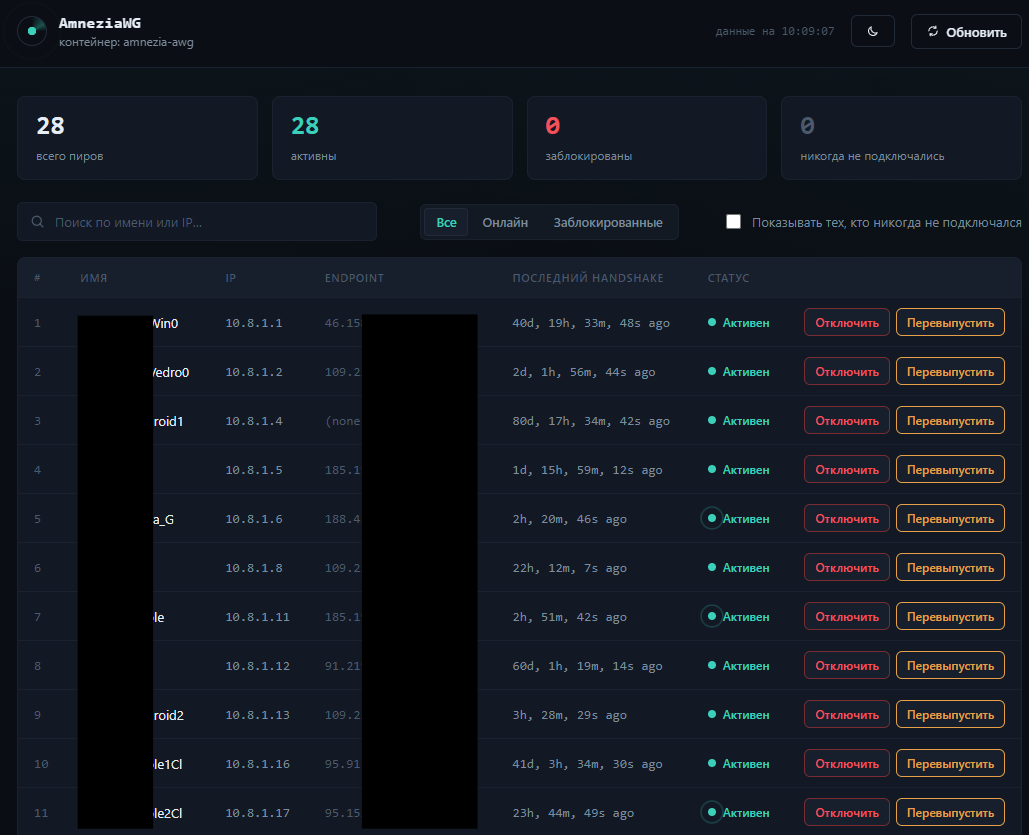
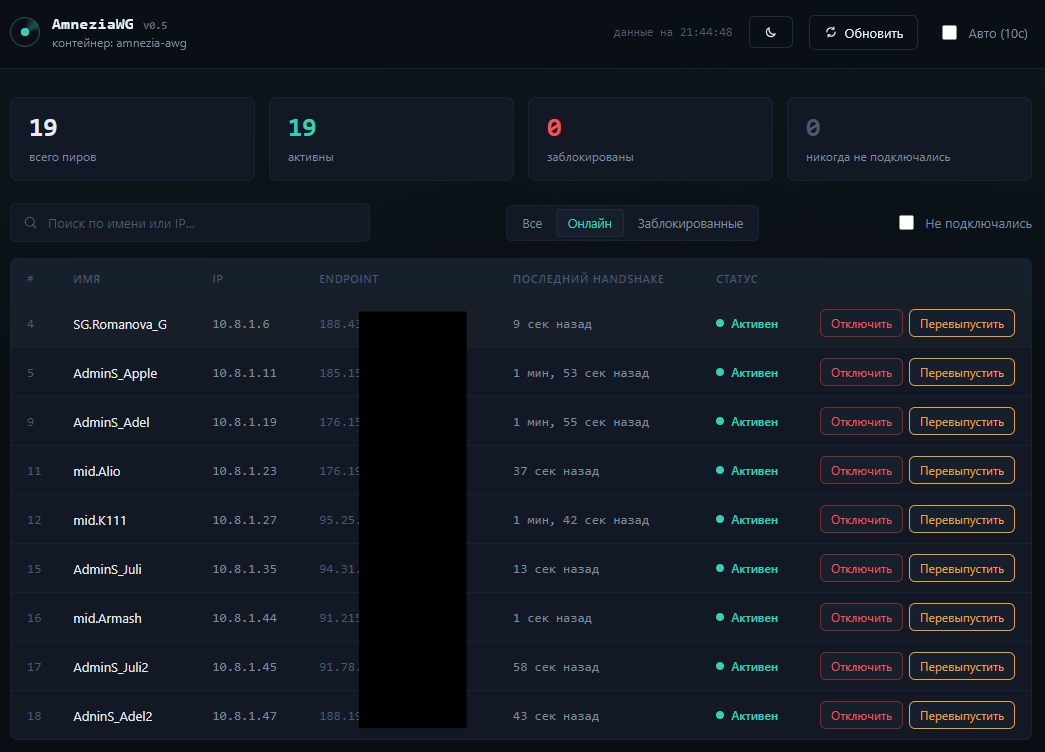
Changes Wed Jul  8 12:22:15 AM MSK 2026

diff --git a/main.go b/main.go
@@ -76,7 +76,7 @@ type User struct {
 // AppVersion — версия панели. Обновляется вручную при значимых изменениях,
 // чтобы можно было визуально свериться (в шапке панели), что деплой на
 // сервере реально подтянул актуальный код после git pull + пересборки.
-const AppVersion = "0.5"
+const AppVersion = "0.6"
 
 type Summary struct {
 	Total     int `json:"total"`
@@ -647,6 +647,13 @@ func buildUsers(cfg config.Config, includeNeverSeen bool) (UsersResponse, error)
 			}
 		}
 
+		// "Никогда не подключавшиеся" считаем всегда — счётчик в карточке
+		// должен показывать их реальное количество независимо от того,
+		// включены ли они в видимый список (галочка includeNeverSeen).
+		if neverSeen {
+			summary.NeverSeen++
+		}
+
 		if neverSeen && !includeNeverSeen {
 			continue
 		}
@@ -659,9 +666,6 @@ func buildUsers(cfg config.Config, includeNeverSeen bool) (UsersResponse, error)
 			summary.Blocked++
 		} else {
 			summary.Active++
-		}
-		if neverSeen {
-			summary.NeverSeen++
 		}
 
 		users = append(users, User{